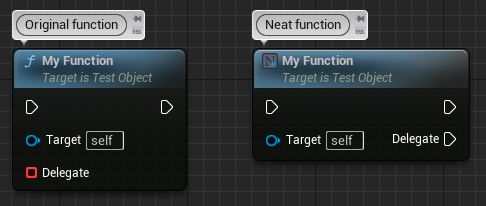
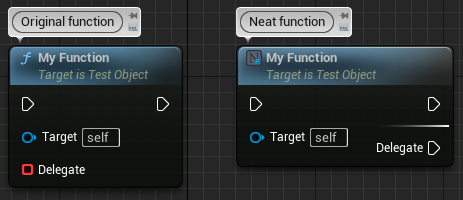
Simple custom graph node with separators between delegates

diff --git a/Source/NeatFunctions/Private/K2Node_NeatCallFunction.cpp b/Source/NeatFunctions/Private/K2Node_NeatCallFunction.cpp
@@ -7,6 +7,9 @@
 #include "KismetCompiler.h"
 
 #include "K2Node_CustomEvent.h"
+#include "SGraphPin.h"
+#include "KismetNodes/SGraphNodeK2Default.h"
+#include "Widgets/Colors/SSimpleGradient.h"
 
 const FName UK2Node_NeatCallFunction::DelegateFunctionMetadataName("NeatDelegateFunction");
 
@@ -155,4 +158,47 @@ void UK2Node_NeatCallFunction::ValidateNodeDuringCompilation(FCompilerResultsLog
 FSlateIcon UK2Node_NeatCallFunction::GetIconAndTint(FLinearColor& OutColor) const
 {
 	return FSlateIcon(FNeatFunctionsStyle::Get().GetStyleSetName(), "NeatFunctions.FunctionIcon");
+}
+
+class SNeatCallFunctionNode : public SGraphNodeK2Default
+{
+public:
+	SLATE_BEGIN_ARGS(SNeatCallFunctionNode){}
+	SLATE_END_ARGS()
+	
+	void Construct(const FArguments& InArgs, UK2Node* InNode)
+	{
+		this->GraphNode = InNode;
+		this->UpdateGraphNode();
+	}
+
+	virtual void AddPin(const TSharedRef<SGraphPin>& PinToAdd) override
+	{
+		// Add separator on top of each delegate, to make it very clear what pins belong to what context.
+		const UK2Node_NeatCallFunction* NodeAsFn = Cast<UK2Node_NeatCallFunction>(GetNodeObj());
+		const UEdGraphPin* PinObj = PinToAdd->GetPinObj();
+		
+		const UFunction* Fn = NodeAsFn ? NodeAsFn->GetTargetFunction() : nullptr;
+		const FProperty* Property = Fn ? Fn->FindPropertyByName(PinObj->PinName) : nullptr;
+		const bool bIsDelegatePin = Property && Property->IsA<FDelegateProperty>();
+		if (PinToAdd->GetDirection() == EGPD_Output && PinObj->PinType.PinCategory == UEdGraphSchema_K2::PC_Exec && bIsDelegatePin)
+		{
+			RightNodeBox->AddSlot().AutoHeight().Padding(5.0f)
+			[
+				SNew(SBox).MinDesiredHeight(2.0f)
+				[
+					SNew(SSimpleGradient)
+					.StartColor(FLinearColor::Transparent)
+					.EndColor(FLinearColor::White)
+				]
+			];
+		}
+		
+		SGraphNodeK2Default::AddPin(PinToAdd);
+	}
+};
+
+TSharedPtr<SGraphNode> UK2Node_NeatCallFunction::CreateVisualWidget()
+{
+	return SNew(SNeatCallFunctionNode, this);
 }

diff --git a/Source/NeatFunctions/Public/K2Node_NeatCallFunction.h b/Source/NeatFunctions/Public/K2Node_NeatCallFunction.h
@@ -11,16 +11,8 @@
  *
  * DECLARE_DYNAMIC_DELEGATE(FMyDelegate);
  *
- * // This will show both the original function and the Neat version in the BP context menu
  * UFUNCTION(BlueprintCallable, meta = (NeatDelegateFunction))
  * void MyFunction(FMyDelegate InDelegate)
- * {
- *		InDelegate.ExecuteIfBound();
- * }
- *
- * // This will show *only* the Neat version in the BP context menu
- * UFUNCTION(BlueprintCallable, meta = (NeatDelegateFunction, BlueprintInternalUseOnly = true))
- * void MyFunction2(FMyDelegate InDelegate)
  * {
  *		InDelegate.ExecuteIfBound();
  * }
@@ -38,6 +30,7 @@ public:
 	virtual void ExpandNode(FKismetCompilerContext& CompilerContext, UEdGraph* SourceGraph) override;
 	virtual void ValidateNodeDuringCompilation(FCompilerResultsLog& MessageLog) const override;
 	virtual FSlateIcon GetIconAndTint(FLinearColor& OutColor) const override;
+	virtual TSharedPtr<SGraphNode> CreateVisualWidget() override;
 
 protected:
 	UPROPERTY()

diff --git a/Source/NeatFunctions/NeatFunctions.Build.cs b/Source/NeatFunctions/NeatFunctions.Build.cs
@@ -22,6 +22,7 @@ public class NeatFunctions : ModuleRules
 			"UnrealEd",
 			"KismetCompiler",
 			"Projects",
+			"GraphEditor",
 		});
 	}
 }
